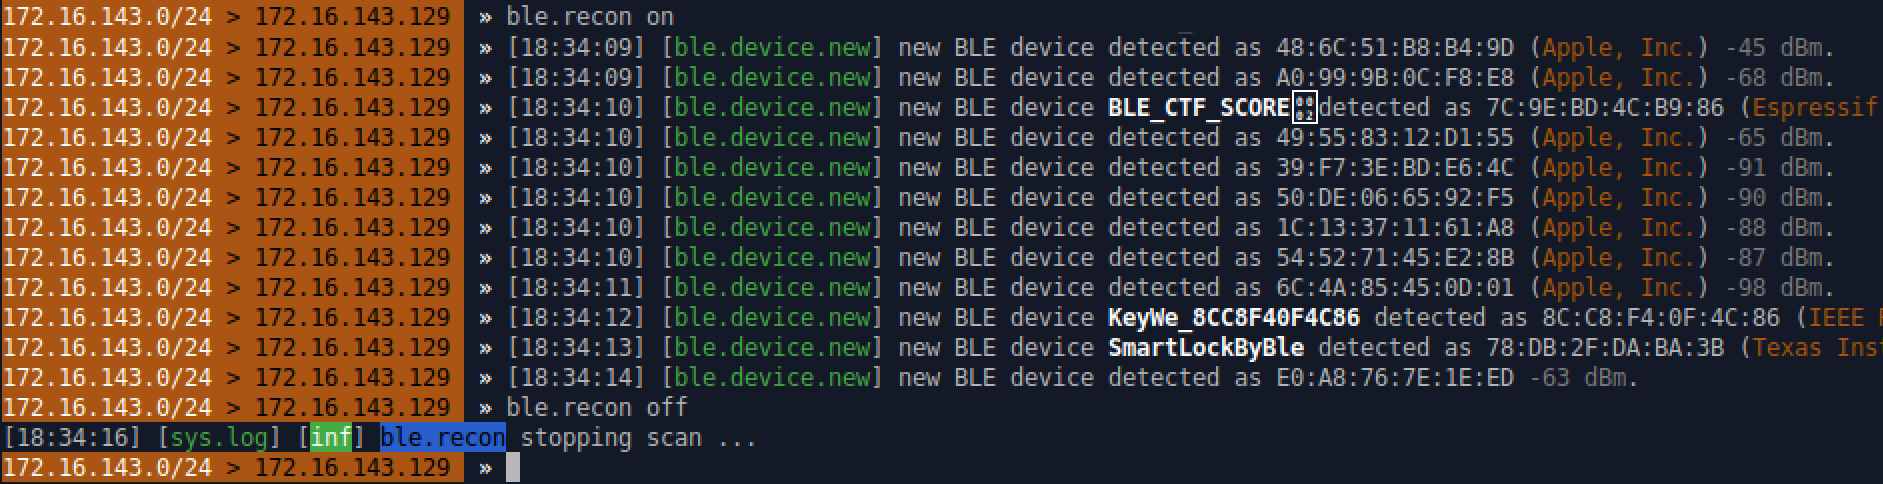
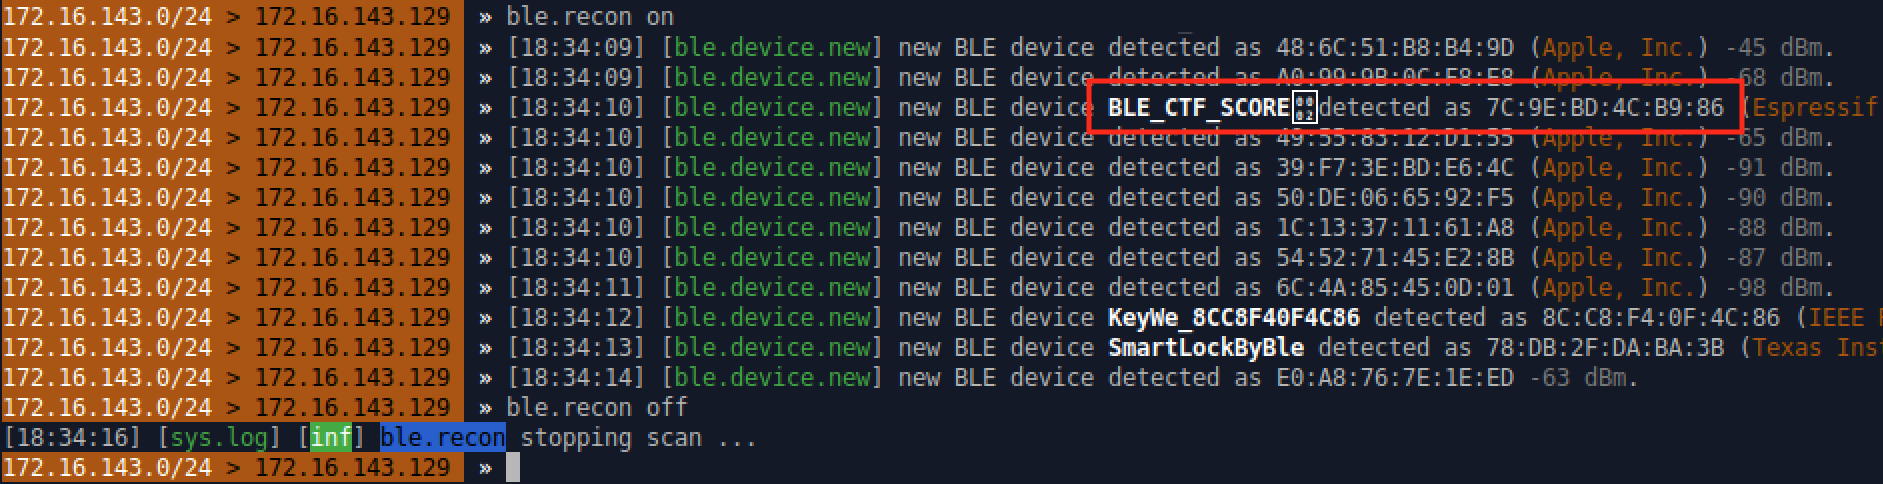
Add bettercap section

Changed region(s): [[0.5544, 0.155, 0.9241, 0.2789]]

diff --git a/index.md b/index.md
@@ -7,17 +7,70 @@ This lab walks through some tools that are used for hacking Bluetooth Low Energy
 2. Remove and re insert the Bluetooth dongle.
 3. Power cycle the BLE CTF device.
 
-## Gatt Servers
+## Gatt Server
+
+## hciconfig
+
+You can view BLE interfaces on you system by using the `hciconfig` command. You should see at least one interface.
+
+<img src="images/hciconfig.png" />
+
+
+## Bettercap
+
+We need to discover the address of our target BLE device. There are many tools that can accomplish this. We will use <a href="https://bettercap.org">bettercap</a> in the command line.
+
+Start bettercap (lab machine passwords: password)
+```bash
+$ sudo bettercap
+```
+Run recon to list discovered BLE devices. Note, there will probably be **many** discovered devices in crowded areas. You should turn off recon mode quickly after.
+```
+» ble.recon on
+» ble.recon off
+```
+You should see similar output as below. We are looking for the address of devices named `BLE_CTF_SCORE`. There should be several. Choose one and copy the MAC address. This will be our target for the rest of the lab.
+
+<img src="images/ble_recon.png" />
+
+After running `ble.recon`, you can display discovered devices with additional info including signal strength, the chip vendor, and connection status.
+```
+» ble.show
+```
+<img src="images/ble_show.png" />
+
+Now that we have found the address of our target, we can enumerate characteristics and services of what is running on the gatt server. Run the following command, replacing the MAC address with your selected target.
+
+```
+» ble.enum AA:BB:CC:DD:EE:FF
+```
+
+<img src="images/ble_enum_0.png" width="84%"/>
+
+This is the BLE CTF Infinity scoreboard, which nicely shows our progress. We should see that 0/10 flags are complete. There are also 2 important things we should take away from this:
+1. We write all flags to handle `0x002e`
+2. We navigate between challenges (flags) by writing a value between `0x0000` and `0x00FF` to handle `0x0030`.
+
+The BLE CTF is made of multiple Gatt servers which we need to rotate through by writing values to `0x0030`
+
+
+**Note**: We have be using `bettercap` in interactive mode. You can also run individual commands from the shell prompt.
+
+```bash
+$ sudo bettercap --eval "ble.recon on"
+```
+
+We will continue to use `bettercap` throughout this lab, but for now let's look at another tool.
+
+## Gatttool
 
 
 
 ## Something
 
-<img src="images/ble_recon.png" />
 
-<img src="images/ble_show.png" />
 
-<img src="images/ble_enum_0.png" width="84%"/>
+
 
 <img src="images/gatttool_flag_1.png" />
 
